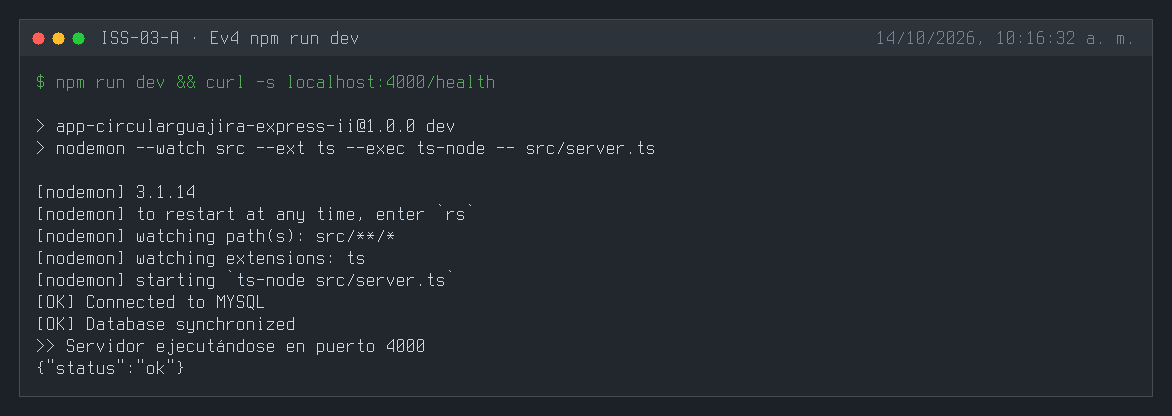
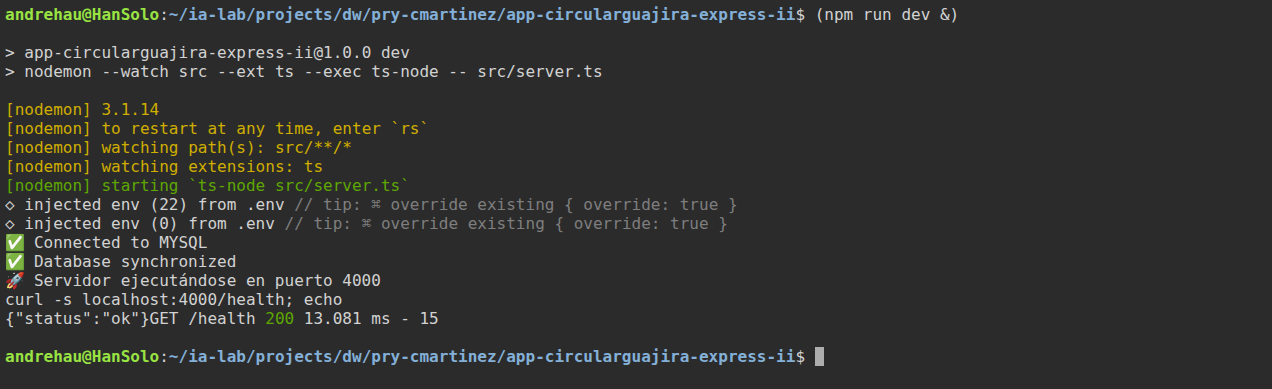
ISS-03: Capturas reales de evidencias A y B

diff --git a/dw/pry-cmartinez/app-circularguajira-express-ii/docs/PROCESO.md b/dw/pry-cmartinez/app-circularguajira-express-ii/docs/PROCESO.md
@@ -376,11 +376,11 @@ curl -s localhost:4000/health
 
 #### Evidencias
 
-**Ev1 — Modelo Recycler:** `grep` del modelo muestra los enums, `defaultValue: "inactive"` y `timestamps: true`; `DESCRIBE recyclers` muestra las columnas snake_case con `document_number` único.
+**Ev1 — Modelo Recycler:** `grep` del modelo muestra los enums, `defaultValue: "inactive"` y `timestamps: true`; `DESCRIBE recyclers` en el contenedor MySQL muestra las columnas snake_case con `document_number` único.
 
 ![Ev1 ISS-03-A](images/Ev1-ISS-03-A.png)
 
-**Ev2 — Esqueleto y carpeta http:** `find` lista dto, model, controller, repository, routes, service y los errores compartidos; imprime `HTTP_FOLDER_OK`.
+**Ev2 — Esqueleto y carpeta http:** `git ls-tree` del commit del ISS-03-A lista dto, model, controller, repository, routes, service y los errores compartidos; imprime `HTTP_FOLDER_OK`.
 
 ![Ev2 ISS-03-A](images/Ev2-ISS-03-A.png)
 
@@ -485,6 +485,8 @@ git add src/shared/http/parseId.ts \
 git commit -m "ISS-03-B: Feature collectors: getAll y getOne"
 git push origin main
 ```
+
+Commit: [`edaef70`](https://github.com/DW-2026-IISem/dw-2026-Andreushin/commit/edaef701472e36e90b9315601e05abe5b625dfd9)
 
 ### ISS-04 — Seeders con Faker
 
